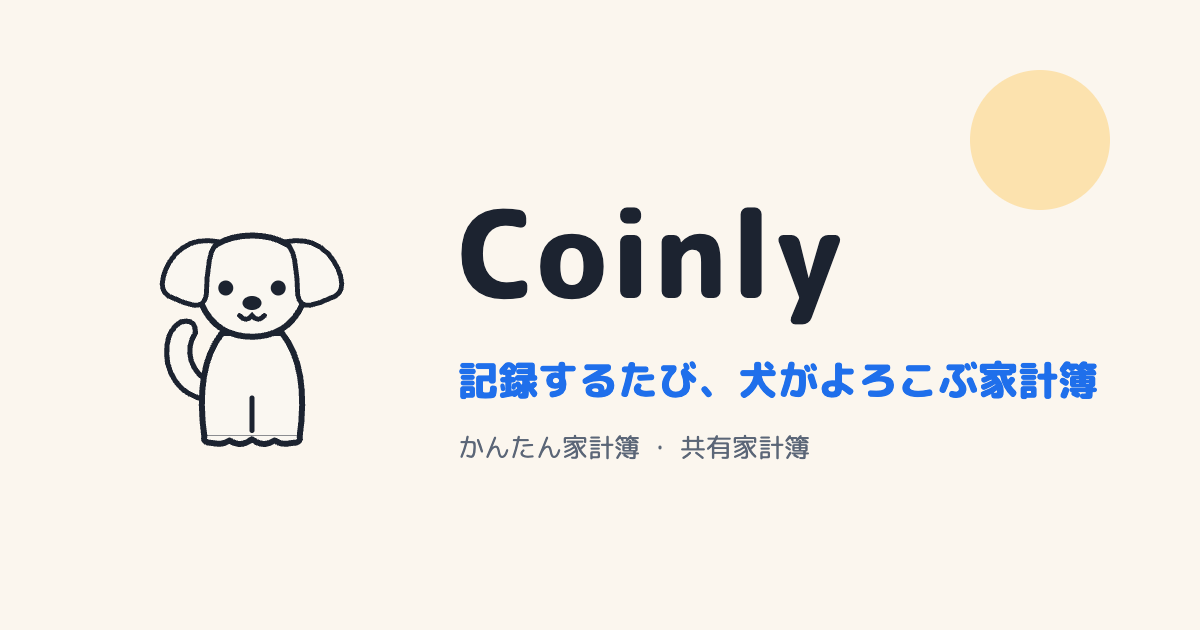
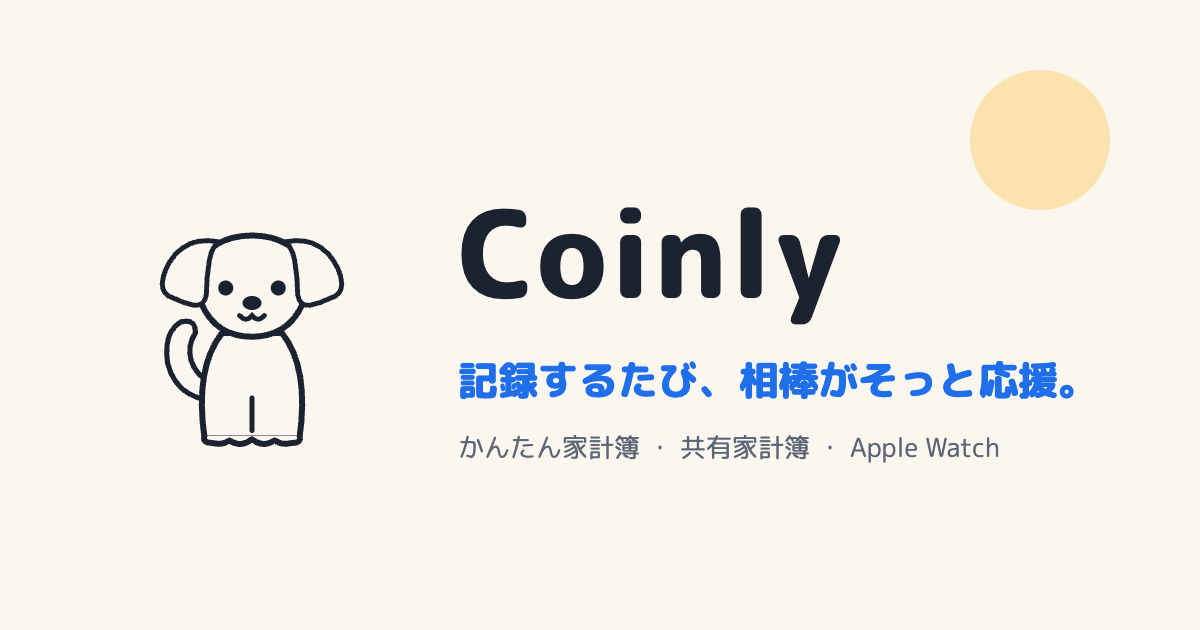
feat(coinly): companion tagline and an Apple Watch section

Changed region(s): [[0.6167, 0.573, 0.925, 0.6333], [0.7092, 0.6937, 0.8325, 0.7238]]

diff --git a/app/products/coinly/_components/CoinlyLanding.tsx b/app/products/coinly/_components/CoinlyLanding.tsx
@@ -5,13 +5,16 @@ import {
   CalendarDays,
   Check,
   CircleDashed,
+  CreditCard,
   Link2,
   Lock,
   Mic,
   PenLine,
   PiggyBank,
   QrCode,
+  Smartphone,
   Users,
+  Watch,
 } from "lucide-react";
 import Image from "next/image";
 import Link from "next/link";
@@ -22,8 +25,8 @@ import { coinlyRounded } from "./fonts";
 const content = {
   en: {
     otherLang: { label: "日本語", href: coinlyPaths.home.ja },
-    tagline: "The budget app your dog loves",
-    lead: "Tap in what you spent, and your Maltese companion cheers you on. Coinly keeps your personal budget on your iPhone, and lets you share a book with family, your club or travel buddies when you want to.",
+    tagline: "A companion that quietly cheers you on.",
+    lead: "Just tap in what you spent. Coinly keeps your personal budget on your iPhone, and lets you share a book with family, your club or travel buddies when you want to.",
     cta: "See how it works",
     comingSoon: "Coinly 2.0 is coming soon to the App Store",
     featuresTitle: "Everything you need, nothing you don't",
@@ -95,6 +98,43 @@ const content = {
       { src: "/coinly-shared-home.webp", alt: "Home screen of a shared family book" },
       { src: "/coinly-shared-history.webp", alt: "Shared book history with the member who recorded each expense" },
     ],
+    watchTitle: "On Apple Watch",
+    watchLead: "Check what's left and record on the spot, right from your wrist.",
+    watchShots: [
+      { src: "/coinly-watch-face.webp", alt: "Watch face with the remaining budget complication", label: "Watch face" },
+      { src: "/coinly-watch-amount.webp", alt: "Entering an amount on the watch keypad", label: "1. Amount → Next" },
+      { src: "/coinly-watch-category.webp", alt: "Choosing a category on the watch", label: "2. Category" },
+      { src: "/coinly-watch-done.webp", alt: "The dog celebrating a recorded expense", label: "3. Recorded!" },
+    ],
+    watchStack: { src: "/coinly-watch-smart-stack-en.webp", alt: "Remaining budget in the Smart Stack" },
+    watchPoints: [
+      {
+        icon: Watch,
+        title: "Your budget on the watch face",
+        body: "Add a complication to see this month's remaining budget at a glance. It shows up in the Smart Stack, too.",
+      },
+      {
+        icon: Calculator,
+        title: "Record in a few taps",
+        body: "Enter the amount, tap Next and pick a category. Your companion celebrates every record.",
+      },
+      {
+        icon: CreditCard,
+        title: "Record right after paying with Apple Pay",
+        body: "Set up an automation once in the Shortcuts app, and the amount you just paid comes to your watch, ready to record. Availability depends on your card and payment method.",
+      },
+      {
+        icon: Mic,
+        title: "Record with Siri",
+        body: "Just ask Siri on your watch to record an expense in Coinly.",
+      },
+      {
+        icon: Smartphone,
+        title: "Works through your iPhone",
+        body: "Coinly on your watch works with Coinly on your paired iPhone. No sign-in needed.",
+      },
+    ],
+    watchNote: "Requires watchOS 11 or later and an iPhone with Coinly installed.",
     pricingTitle: "Pricing",
     free: {
       name: "Free",
@@ -122,8 +162,8 @@ const content = {
   },
   ja: {
     otherLang: { label: "English", href: coinlyPaths.home.en },
-    tagline: "記録するたび、犬がよろこぶ家計簿",
-    lead: "使った金額をタップするだけ。マルチーズがそっと応援してくれます。個人の家計簿はiPhoneの中だけに。家族や部活、旅行の仲間と一緒につける「共有家計簿」にも対応しました。",
+    tagline: "記録するたび、相棒がそっと応援。",
+    lead: "使った金額をタップするだけで記録できる家計簿です。個人の家計簿はiPhoneの中だけに。家族や部活、旅行の仲間と一緒につける「共有家計簿」にも対応しました。",
     cta: "くわしく見る",
     comingSoon: "Coinly 2.0 は App Store で近日公開予定です",
     featuresTitle: "毎日続けられる、ちょうどいい機能",
@@ -195,6 +235,43 @@ const content = {
       { src: "/coinly-shared-home.webp", alt: "家族の共有家計簿のホーム画面" },
       { src: "/coinly-shared-history.webp", alt: "記録したメンバーが表示される共有家計簿の履歴" },
     ],
+    watchTitle: "Apple Watch でも",
+    watchLead: "iPhoneを出さなくても、腕元で残りを確認して、その場で記録できます。",
+    watchShots: [
+      { src: "/coinly-watch-face.webp", alt: "残りの予算を表示するコンプリケーションのある文字盤", label: "文字盤" },
+      { src: "/coinly-watch-amount.webp", alt: "Apple Watchのテンキーで金額を入力する画面", label: "1. 金額 → 次へ" },
+      { src: "/coinly-watch-category.webp", alt: "Apple Watchでカテゴリを選ぶ画面", label: "2. カテゴリ" },
+      { src: "/coinly-watch-done.webp", alt: "記録が完了して犬がよろこぶ画面", label: "3. 記録完了" },
+    ],
+    watchStack: { src: "/coinly-watch-smart-stack-ja.webp", alt: "スマートスタックに表示された残りの予算" },
+    watchPoints: [
+      {
+        icon: Watch,
+        title: "文字盤で残りの予算を確認",
+        body: "コンプリケーションを文字盤に置けば、今月の残りがいつでもひと目でわかります。スマートスタックにも表示できます。",
+      },
+      {
+        icon: Calculator,
+        title: "数タップで記録",
+        body: "金額を入力して「次へ」、カテゴリを選べば完了。記録するたびに相棒がよろこんでくれます。",
+      },
+      {
+        icon: CreditCard,
+        title: "Apple Pay で払ったら、すぐ記録",
+        body: "ショートカットAppで一度オートメーションを設定しておくと、支払った金額がApple Watchに届き、そのまま記録できます。カードや支払い方法によっては使えない場合があります。",
+      },
+      {
+        icon: Mic,
+        title: "Siriで記録",
+        body: "Apple WatchのSiriに話しかけて、支出を記録することもできます。",
+      },
+      {
+        icon: Smartphone,
+        title: "iPhoneと連携して動作",
+        body: "ペアリングしたiPhoneのCoinlyと連携して動くので、サインインは不要です。",
+      },
+    ],
+    watchNote: "watchOS 11 以降に対応。ペアリングしたiPhoneにCoinlyが必要です。",
     pricingTitle: "料金",
     free: {
       name: "無料",
@@ -231,6 +308,19 @@ function PhoneShot({ src, alt, className }: { src: string; alt: string; classNam
       )}
     >
       <Image src={src} alt={alt} width={600} height={1304} className="h-auto w-full" />
+    </div>
+  );
+}
+
+function WatchShot({ src, alt, className }: { src: string; alt: string; className?: string }) {
+  return (
+    <div
+      className={cn(
+        "overflow-hidden rounded-[22%/18%] border-[6px] border-[#2B2F36] bg-black p-[5%] shadow-[0_18px_40px_-18px_rgba(15,42,87,0.45)]",
+        className
+      )}
+    >
+      <Image src={src} alt={alt} width={416} height={496} className="h-auto w-full" />
     </div>
   );
 }
@@ -376,6 +466,57 @@ export function CoinlyLanding({ lang }: { lang: CoinlyLang }) {
                   <PhoneShot key={s.src} src={s.src} alt={s.alt} className="rounded-2xl border-4 sm:rounded-[2rem]" />
                 ))}
               </div>
+            </div>
+          </div>
+        </section>
+
+        {/* Apple Watch */}
+        <section id="apple-watch" className="w-full bg-white py-16">
+          <div className="container mx-auto max-w-6xl px-4 sm:px-6 lg:px-12">
+            <h2 className="text-balance text-center text-display-xs font-extrabold text-coinly-ink md:text-display-sm">
+              {t.watchTitle}
+            </h2>
+            <p className="mx-auto mt-3 max-w-2xl text-center text-body-md text-coinly-muted">{t.watchLead}</p>
+            <ul className="mx-auto mt-10 grid max-w-4xl grid-cols-2 gap-x-4 gap-y-6 sm:grid-cols-4 sm:gap-6">
+              {t.watchShots.map((s) => (
+                <li key={s.src} className="flex flex-col items-center gap-3">
+                  <WatchShot src={s.src} alt={s.alt} className="w-full max-w-[11rem]" />
+                  <span className="text-label-md font-bold text-coinly-600">{s.label}</span>
+                </li>
+              ))}
+            </ul>
+            <div className="mt-12 flex flex-col items-center gap-10 md:flex-row md:items-start">
+              <div className="w-full max-w-sm md:sticky md:top-8 md:w-2/5 md:max-w-none">
+                <div className="relative w-full">
+                  <div className="absolute -left-4 -top-4 h-20 w-20 rounded-full bg-coinly-coin/30" aria-hidden />
+                  <div className="relative overflow-hidden rounded-[2rem] shadow-[0_18px_40px_-18px_rgba(15,42,87,0.45)]">
+                    <Image
+                      src={t.watchStack.src}
+                      alt={t.watchStack.alt}
+                      width={558}
+                      height={276}
+                      className="h-auto w-full"
+                    />
+                  </div>
+                </div>
+              </div>
+              <ul className="flex w-full flex-col gap-4 md:w-3/5">
+                {t.watchPoints.map(({ icon: Icon, title, body }) => (
+                  <li key={title} className="flex gap-4 rounded-3xl border border-coinly-line bg-white p-5">
+                    <div className="flex h-11 w-11 shrink-0 items-center justify-center rounded-2xl bg-coinly-50 text-coinly-500">
+                      <Icon className="h-6 w-6" aria-hidden />
+                    </div>
+                    <div>
+                      <h3 className="text-heading-md font-bold text-coinly-ink">{title}</h3>
+                      <p className="mt-1 text-body-sm text-coinly-muted">{body}</p>
+                    </div>
+                  </li>
+                ))}
+                <li className="flex items-start gap-3 px-2 text-body-sm text-coinly-muted">
+                  <Watch className="mt-0.5 h-4 w-4 shrink-0 text-coinly-500" aria-hidden />
+                  <span>{t.watchNote}</span>
+                </li>
+              </ul>
             </div>
           </div>
         </section>

diff --git a/app/products/coinly/page.tsx b/app/products/coinly/page.tsx
@@ -7,10 +7,10 @@ const baseUrl =
     : "http://localhost:3030";
 
 const description =
-  "Coinly is a simple household budget app for iPhone. Record in one tap, keep your personal book on your iPhone, and share a book with family, your club or travel buddies.";
+  "Coinly is a simple household budget app for iPhone. Record in one tap, keep your personal book on your iPhone, and share a book with family, your club or travel buddies. Works on Apple Watch, too.";
 
 export const metadata: Metadata = {
-  title: "Coinly - The budget app your dog loves",
+  title: "Coinly - A companion that quietly cheers you on",
   description,
   openGraph: {
     title: "Coinly",

diff --git a/app/products/coinly/ja/page.tsx b/app/products/coinly/ja/page.tsx
@@ -7,7 +7,7 @@ const baseUrl =
     : "http://localhost:3030";
 
 const description =
-  "Coinlyは、タップするだけで記録できるiPhoneの家計簿アプリ。個人の家計簿はiPhoneの中だけに。家族・部費・旅行の共有家計簿にも対応。";
+  "Coinlyは、タップするだけで記録できるiPhoneの家計簿アプリ。個人の家計簿はiPhoneの中だけに。家族・部費・旅行の共有家計簿やApple Watchにも対応。";
 
 export const metadata: Metadata = {
   title: "Coinly - かんたん家計簿",
